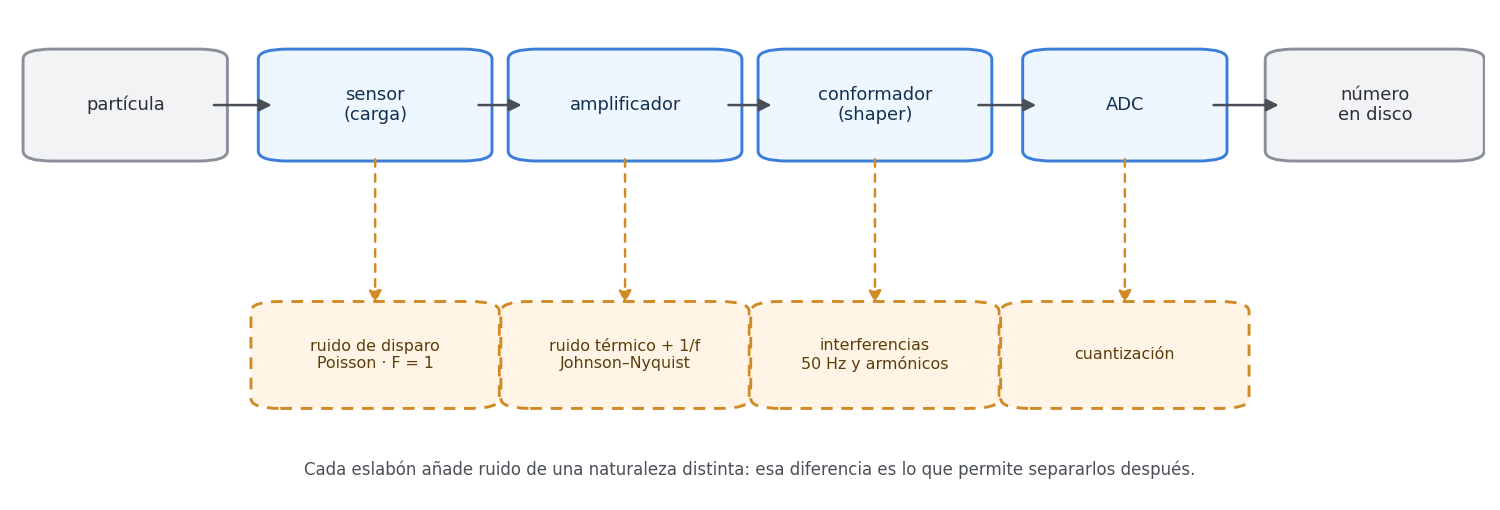
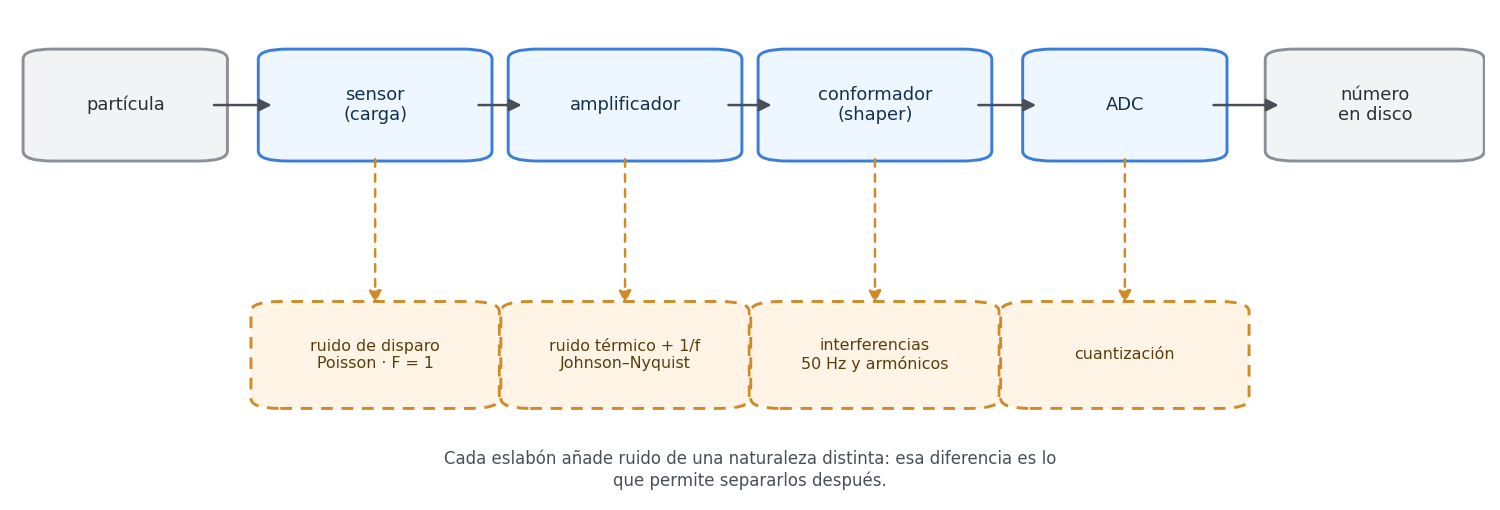
ci(fase4): tarea 4.14 - cache y endurecimiento de la CI (#48)
Bloque B, tarea 4.14. Cambios en .github/workflows/ci.yml, Dockerfile,
y dos scripts nuevos versionados.

1. CACHE DE DOCKER (issue #36, deuda I1 desde la Fase 2)
   Build migrado a docker/build-push-action@v5 con Buildx y
   cache-from/cache-to type=gha. Cada ejecucion recompilaba liboqs
   desde cero (9-16 min); ahora reutiliza capas entre ejecuciones.

   Añadido, en el MISMO PR (nunca la cache sin esto): job build-limpio,
   disparado solo por cron semanal (lunes 4am), que reconstruye con
   --no-cache. Precedente real documentado: liboqs-python 0.14.1
   desaparecio de PyPI y una cache de dias antes escondio el problema
   en una maquina del equipo.

2. HALLAZGO: RUFF NUNCA CORRIA EN CI
   pyproject.toml tiene [tool.ruff] configurado desde el principio del
   proyecto, pero no habia ningun paso que lo ejecutara. Mas grave que
   el hallazgo N2 de la auditoria del Modulo 2 (que solo señalaba que
   ruff no cubria scripts/ ni dashboard/): en realidad no cubria nada,
   ni siquiera src/. Verificado que el arbol ya estaba limpio salvo dos
   avisos en scripts/make_detector_theory_figs.py (B905 sin
   strict=, E501 linea larga), corregidos en este mismo PR con
   ruff --fix y particionando el string largo. Confirmado con md5sum
   que la figura generada no cambia por el fix de B905, y que si
   cambia (esperado) por partir el string en dos lineas de texto.
   Añadido el paso "Ruff (lint)", en el orden que pide la guia:
   ruff -> black -> mypy -> pytest.
[…]

Changed region(s): [[0.184, 0.8824, 0.7973, 0.9706]]

diff --git a/scripts/make_detector_theory_figs.py b/scripts/make_detector_theory_figs.py
@@ -110,7 +110,7 @@ def cadena_de_lectura() -> None:
         ("ADC", AZUL_B, AZUL_L, AZUL_T, 0.115),
         ("número\nen disco", GRIS_B, GRIS_L, GRIS_T, 0.125),
     ]
-    for x, (t, b, r, c, ww) in zip(xs, cajas):
+    for x, (t, b, r, c, ww) in zip(xs, cajas, strict=False):
         _caja(ax, x, y, ww, h, t, b, r, c, fs=8.6)
 
     for i in range(len(xs) - 1):
@@ -132,7 +132,8 @@ def cadena_de_lectura() -> None:
     ax.text(
         0.5,
         0.07,
-        "Cada eslabón añade ruido de una naturaleza distinta: esa diferencia es lo que permite separarlos después.",
+        "Cada eslabón añade ruido de una naturaleza distinta: esa diferencia es lo\n"
+        "que permite separarlos después.",
         ha="center",
         va="center",
         fontsize=8,
